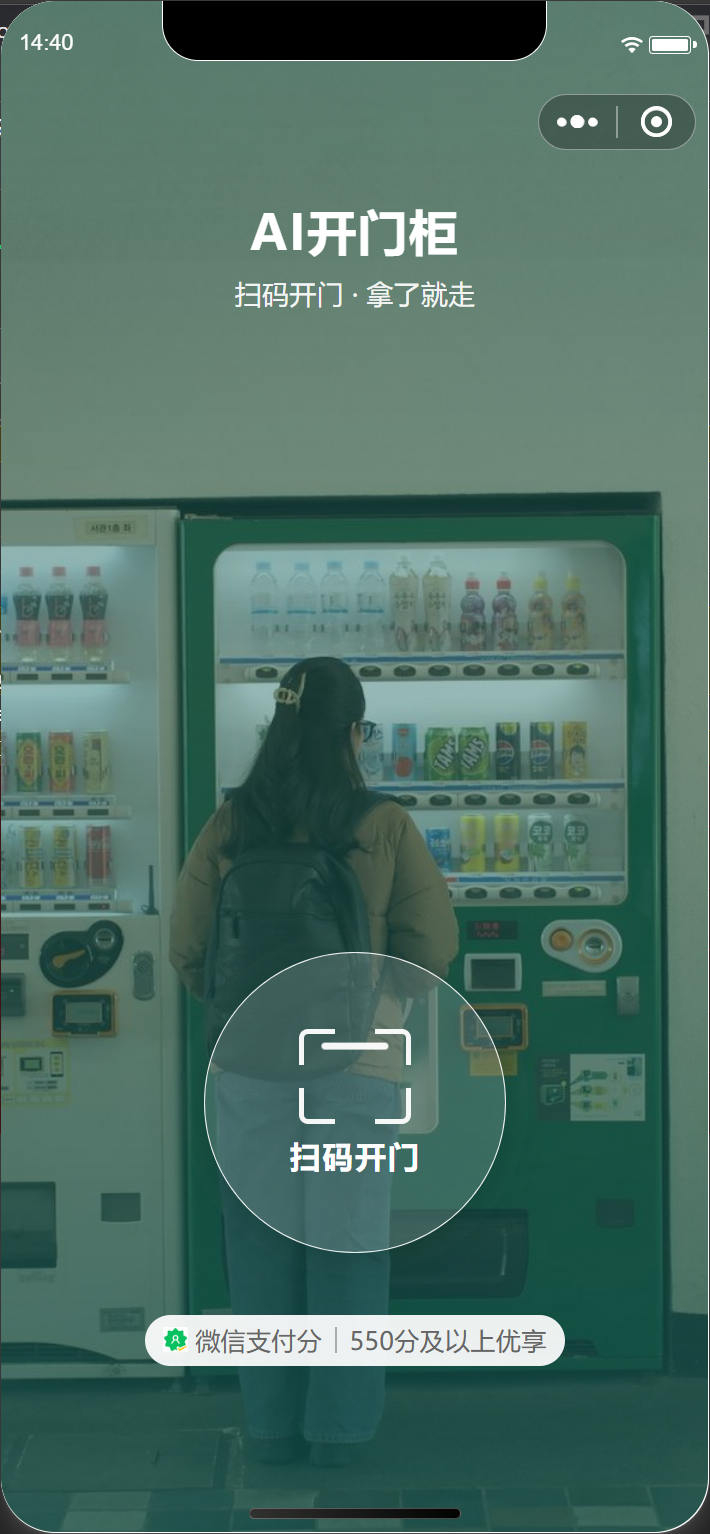
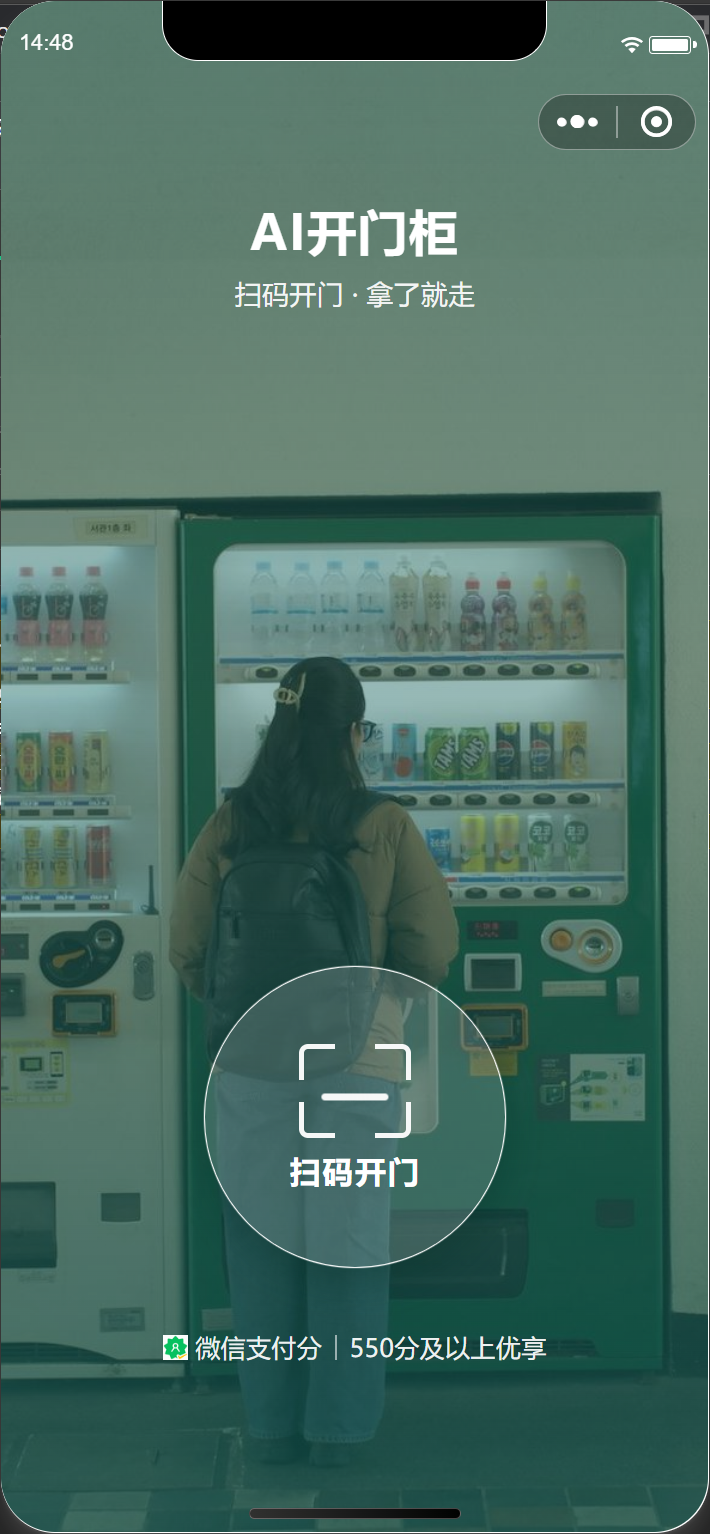
style(consumer-mp): 支付分横幅去白底，改透明底白字（与首页同底色）
pay-score-tag 新增 tone="light"（官方 logo 保留原色，文字/分割线转白）；
HomeLanding 底部去掉白胶囊，直接落在首页照片底色上。

diff --git a/packages/shared-uni/src/components/pay-score-tag.vue b/packages/shared-uni/src/components/pay-score-tag.vue
@@ -1,5 +1,11 @@
 <template>
-  <view class="ps-tag" :class="[`ps-tag--${variant}`, { 'ps-tag--scored': showScore }]">
+  <view
+    class="ps-tag"
+    :class="[
+      `ps-tag--${variant}`,
+      { 'ps-tag--scored': showScore, 'ps-tag--light': tone === 'light' }
+    ]"
+  >
     <!-- 路径必须写字面量：script setup 里的 const 在小程序端编译后取不到（o.logoSrc 为空） -->
     <image class="ps-tag__logo" src="/static/payscore/payscore-logo.png" mode="widthFix" />
     <text class="ps-tag__brand">微信支付分</text>
@@ -42,12 +48,15 @@ const props = withDefaults(
     showScore?: boolean;
     /** 分数文案，如「550分及以上优享」 */
     score?: string;
+    /** dark = 深色文字（浅底，默认）；light = 白字（深色/照片底，用于首页底部） */
+    tone?: 'dark' | 'light';
   }>(),
   {
     variant: 'label',
     biz: '先取后付',
     showScore: false,
-    score: '550分及以上优享'
+    score: '550分及以上优享',
+    tone: 'dark'
   }
 );
 
@@ -151,5 +160,15 @@ const scoreText = props.score;
   height: 14px;
   margin: 0 7px;
   background: rgba(102, 102, 102, 0.5);
+}
+
+/* 深色/照片底：官方 logo 保留原色，文字与分割线转白，不再加白色底板 */
+.ps-tag--light .ps-tag__brand,
+.ps-tag--light .ps-tag__biz,
+.ps-tag--light .ps-tag__score {
+  color: rgba(255, 255, 255, 0.92);
+}
+.ps-tag--light .ps-tag__sep {
+  background: rgba(255, 255, 255, 0.55);
 }
 </style>

diff --git a/clients/consumer-mp/src/components/HomeLanding.vue b/clients/consumer-mp/src/components/HomeLanding.vue
@@ -133,11 +133,11 @@
 
       <!--
         微信支付分品牌标语（2026-11-02 用户要求：首页底部，按同行横幅形态）：
-        单行「微信支付分 | 550分及以上优享」，细胶囊承托保证深色照片上可读；
-        业务词位由分数文案占据（组件 show-score）。
+        单行「微信支付分 | 550分及以上优享」，不加底板、与首页同底色；
+        深色照片上用 light 白字（官方 logo 保留原色）。
       -->
       <view class="landing-score">
-        <pay-score-tag variant="slogan" show-score />
+        <pay-score-tag variant="slogan" show-score tone="light" />
       </view>
     </view>
 
@@ -353,9 +353,8 @@ export default {
 .landing-score {
   flex-shrink: 0;
   margin-top: 10rpx;
-  padding: 8rpx 20rpx;
-  border-radius: 999rpx;
-  background: rgba(255, 255, 255, 0.92);
+  padding: 0;
+  background: transparent;
 }
 
 .landing-action {
